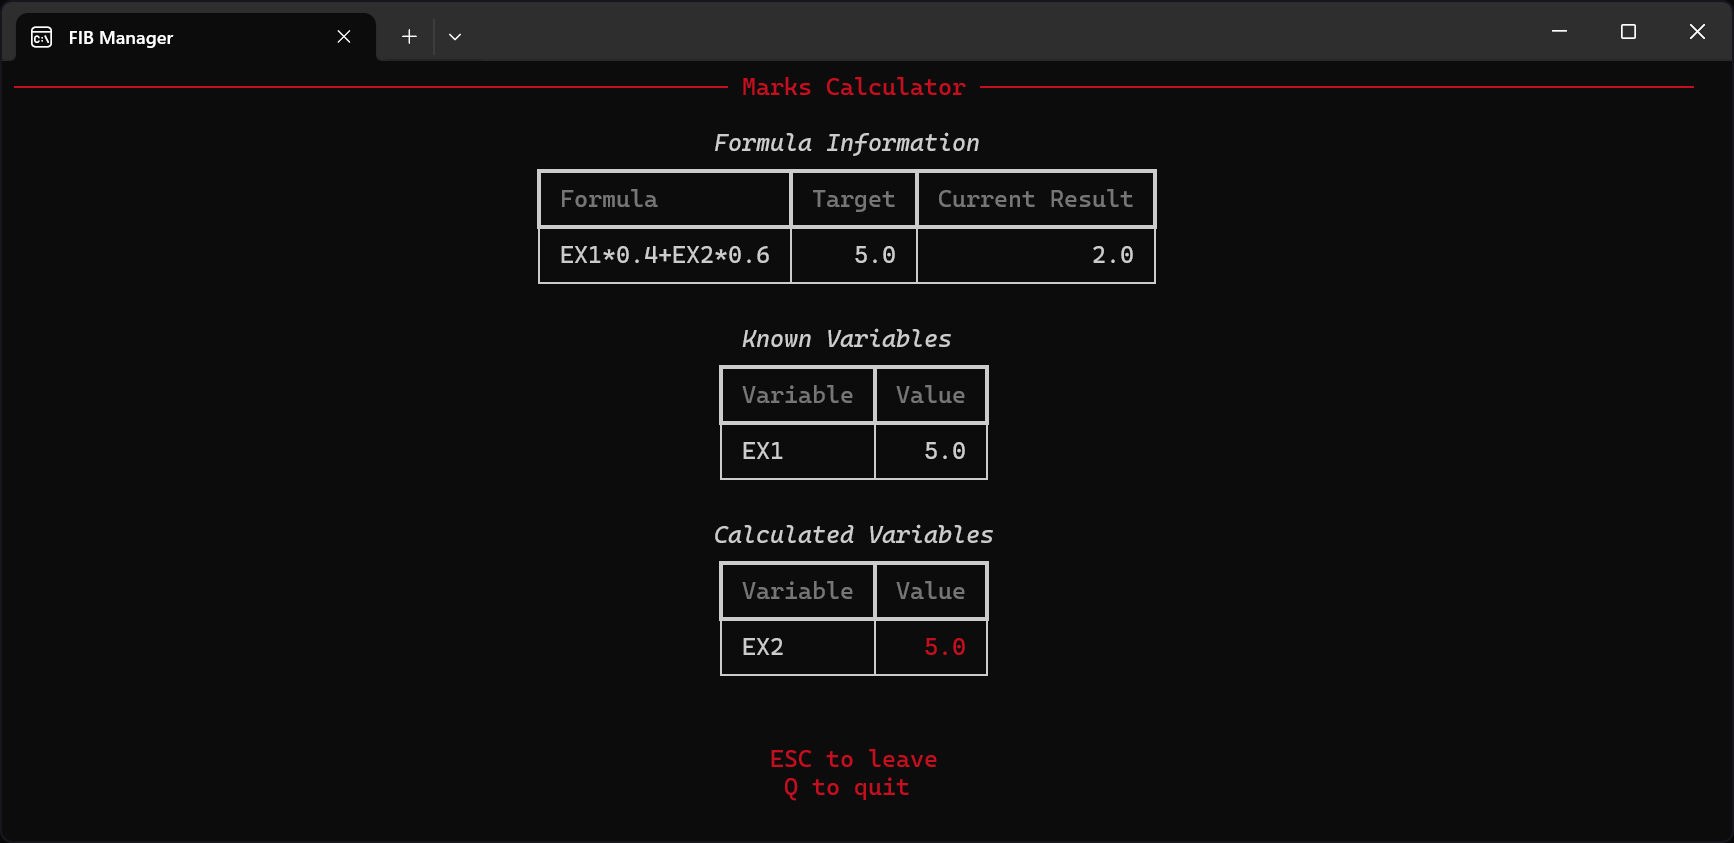
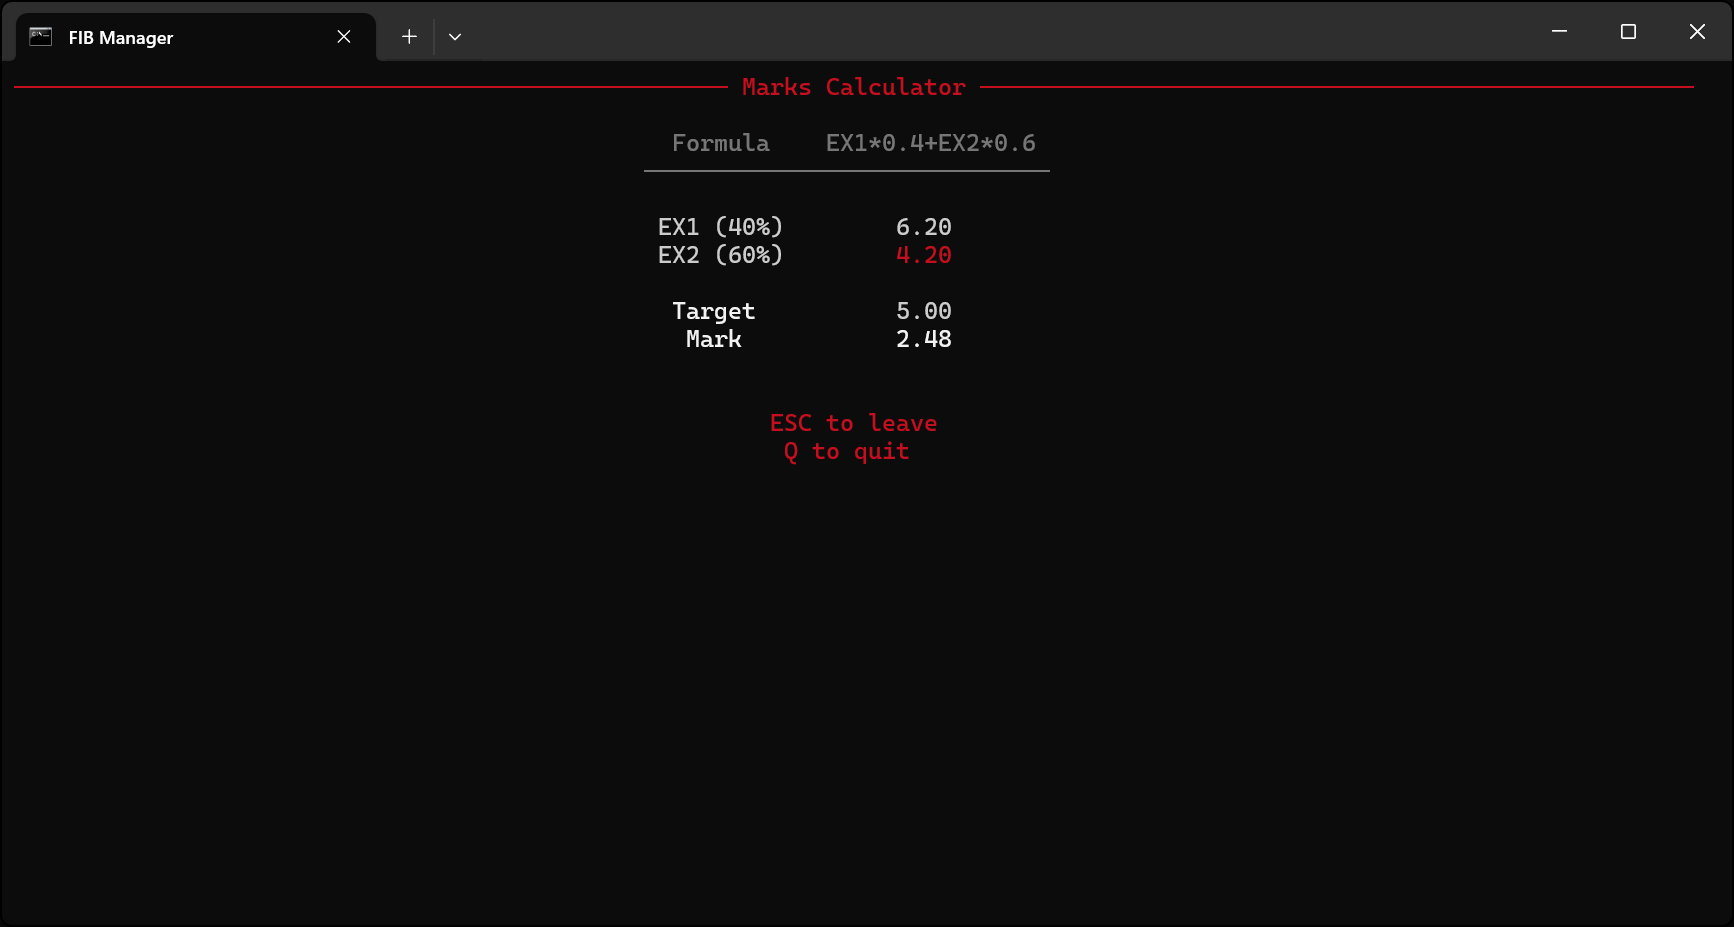
Refine marks calculation prompts and enhance results display in a single table format

diff --git a/src/app/ui/ui.py b/src/app/ui/ui.py
@@ -6,6 +6,7 @@ import sys
 import webbrowser
 import atexit
 import msvcrt
+import re
 from typing import Dict, List, Any
 from pyfiglet import figlet_format
 from rich.console import Console
@@ -34,7 +35,7 @@ UI_THEME = Theme({
 QUESTIONARY_STYLE = QStyle([
     ("qmark", "fg:#FF5555 bold"),
     ("question", "fg:#FFFFFF"),
-    ("answer", "fg:#AAAAAA"),
+    ("answer", "fg:#FFFFFF"),
     ("pointer", "fg:#666666 bold"),
     ("highlighted", "fg:#FF5555 bold"),
     ("selected", "fg:#AAAAAA"),
@@ -361,7 +362,7 @@ def display_subjects_list(quad: str, lang: str) -> None:
 
 def display_marks_results(formula: str, values: dict, target: float, solution: dict, result: float) -> None:
     """
-    Display marks calculation results in a table format.
+    Display marks calculation results in a single table format.
     
     Args:
         formula: The formula used for calculation
@@ -376,52 +377,79 @@ def display_marks_results(formula: str, values: dict, target: float, solution: d
     header = Text("Marks Calculator", style="accent")
     console.rule(header, style="accent")
     console.print()
-    
-    # Formula and target table
-    formula_table = Table(title="Formula Information", header_style="secondary")
-    formula_table.add_column("Formula", style="white", header_style="bold")
-    formula_table.add_column("Target", justify="right", style="white", header_style="bold")
-    formula_table.add_column("Current Result", justify="right", style="white", header_style="bold")
-    formula_table.add_row(
-        formula,
-        str(round(target, 2)),
-        str(round(result, 2))
+      # Create a single comprehensive table
+    marks_table = Table(
+        header_style="secondary",
+        box=box.HORIZONTALS, 
+        title_style="bold white",
+        title_justify="center",
+        border_style="secondary",
+        show_header=True,
+        show_edge=False,
+        pad_edge=True,
+        highlight=False
     )
-    console.print(formula_table, justify="center")
+    marks_table.add_column("Formula", justify="center", style="white", header_style="bold")
+    marks_table.add_column(formula, justify="center", style="white", header_style="bold")
+    
+    # Add header row for variable section
+    marks_table.add_row(Text("", style="secondary"), Text("", style="secondary"))
+    
+    # Add all variable rows
+    variables = list(values.keys()) + list(solution.keys())
+    for var in sorted(variables):
+        if var in values:
+            # Known values - gray text
+            percentage = get_variable_percentage(formula, var)
+            row_text = f"{var} {percentage}"
+            marks_table.add_row(row_text, Text(f"{values[var]:.2f}", style="bold accent"))
+        else:
+            # Solution values - red text if not known
+            percentage = get_variable_percentage(formula, var)
+            row_text = f"{var} {percentage}"
+            marks_table.add_row(row_text, Text(f"{max(0, solution[var]):.2f}", style="red"))
+      # Add header row for results section
+    marks_table.add_row(Text("", style="secondary"), Text("", style="secondary"))
+    
+    # Add target and current result rows
+    marks_table.add_row(Text("Target", style="bold"), Text(f"{target:.2f}", style="bold accent"))
+    marks_table.add_row(Text("Mark", style="bold"), Text(f"{result:.2f}", style="bold"))
+    
+    console.print(marks_table, justify="center")
     console.print()
-    
-    # Known values table
-    if values:
-        known_table = Table(title="Known Variables", header_style="secondary")
-        known_table.add_column("Variable", style="white", header_style="bold")
-        known_table.add_column("Value", justify="right", style="white", header_style="bold")
-        
-        for var, val in sorted(values.items()):
-            known_table.add_row(var, str(round(val, 2)))
-        
-        console.print(known_table, justify="center")
-        console.print()
-    
-    # Solution table
-    if solution:
-        solution_table = Table(title="Calculated Variables", header_style="secondary")
-        solution_table.add_column("Variable", style="white", header_style="bold")
-        solution_table.add_column("Value", justify="right", style="accent", header_style="bold")
-        
-        for var, val in sorted(solution.items()):
-            solution_table.add_row(var, str(round(val, 2)))
-        
-        console.print(solution_table, justify="center")
-        console.print()
     
     console.print("\nESC to leave\nQ to quit", style="accent", justify="center")
     
     while True:
         key = msvcrt.getwch()
-        if key == "\x1b":
+        if key == "\x1b":  # ESC key
             show_cursor()
             clear_screen()
             break
         elif key.lower() == "q":
             show_cursor()
             sys.exit(0)
+
+
+def get_variable_percentage(formula: str, var_name: str) -> str:
+    """
+    Extract the percentage (coefficient) for a variable from the formula if available.
+    
+    Args:
+        formula: The formula string (e.g., "EX1*0.4+EX2*0.6")
+        var_name: The variable name to find the coefficient for
+    
+    Returns:
+        A formatted string with the percentage (e.g., "(40%)") or empty string if not found
+    """
+    # Look for patterns like "var*0.4" or "0.4*var"
+    pattern1 = rf"{var_name}\s*\*\s*(0\.\d+)"
+    pattern2 = rf"(0\.\d+)\s*\*\s*{var_name}"
+    
+    match = re.search(pattern1, formula) or re.search(pattern2, formula)
+    if match:
+        coefficient = float(match.group(1))
+        percentage = int(coefficient * 100)
+        return f"({percentage}%)"
+    
+    return ""

diff --git a/src/app/ui/interactive.py b/src/app/ui/interactive.py
@@ -249,8 +249,8 @@ def perform_marks_calculation() -> None:
     try:
         # Get formula from user
         formula = questionary.text(
-            "Enter formula (e.g., EX1 * 0.4 + EX2 * 0.6):",
-            instruction="Use variable names for marks",
+            "Enter formula:",
+            instruction="Use variable names for marks (e.g., EX1 * 0.4 + EX2 * 0.6)",
             style=QUESTIONARY_STYLE,
             validate=lambda text: bool(text.strip())
         ).ask()
@@ -260,8 +260,8 @@ def perform_marks_calculation() -> None:
         
         # Get target mark
         target_text = questionary.text(
-            "Enter target mark (e.g., 5.0):",
-            instruction="The minimum mark you want to achieve",
+            "Enter target mark:",
+            instruction="The minimum mark you want to achieve (e.g., 5.0)",
             style=QUESTIONARY_STYLE,
             validate=lambda text: text.replace('.', '', 1).isdigit() and 0 <= float(text) <= 10
         ).ask()
